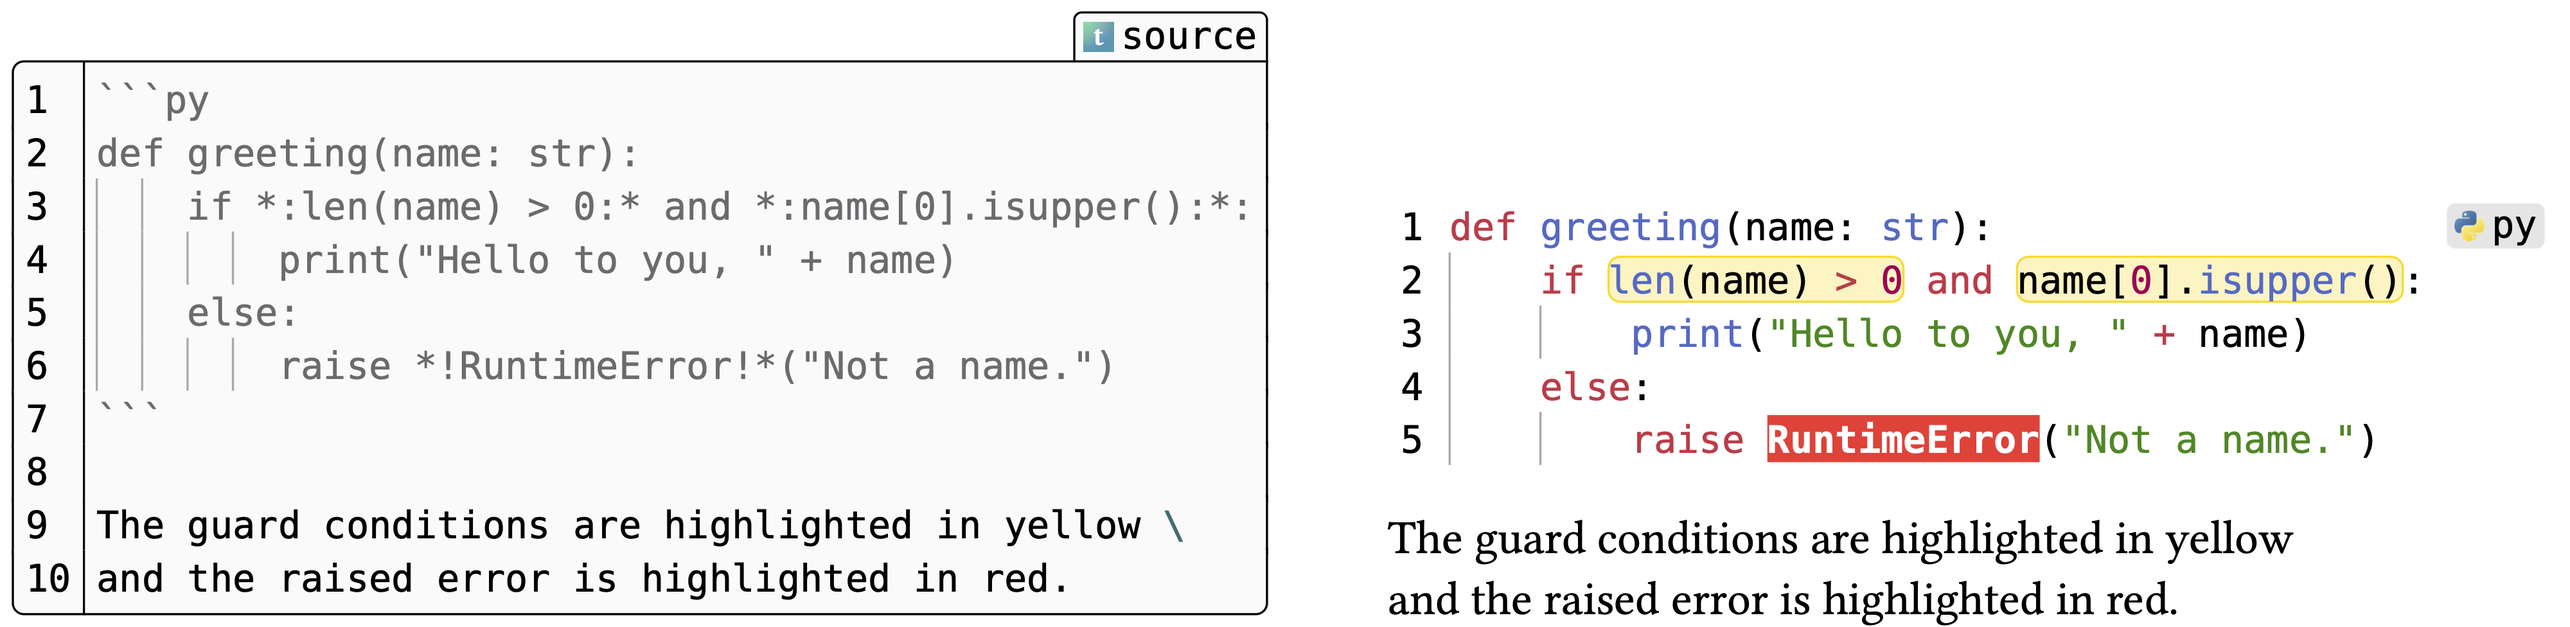
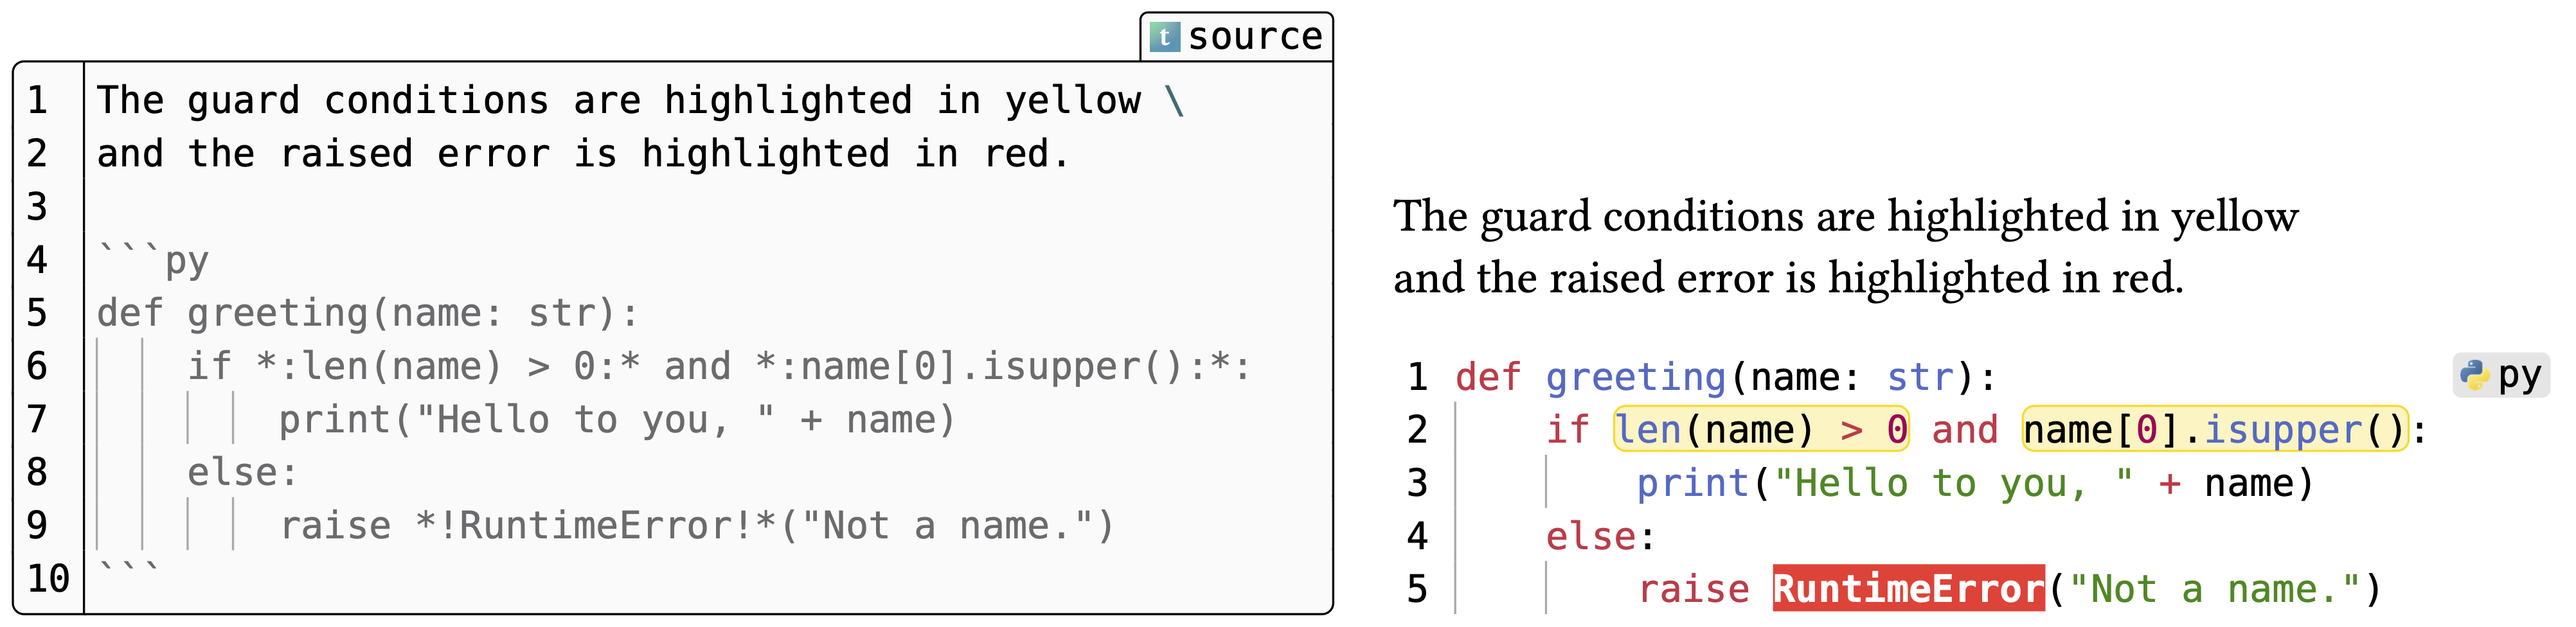
Better images width

diff --git a/README.md b/README.md
@@ -28,7 +28,7 @@ By default only the base (`*:...:*`) and alert (`*!...!*`) highlights are availa
 
 ## Markers, comments, jumps
 
-
+Markers (lying in the numbers column), comments (between lines of code) and jumps (skiping numbers and possibly raw text lines) are available. Here are some examples:
 
 ## More styling
 
